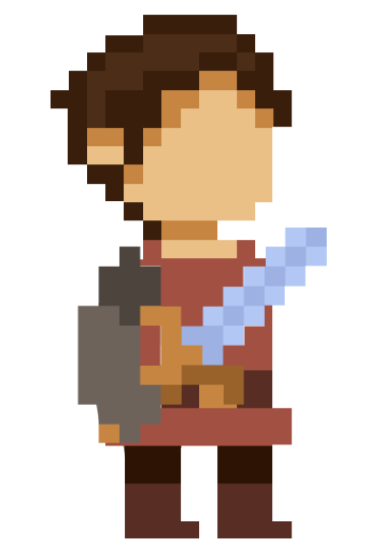
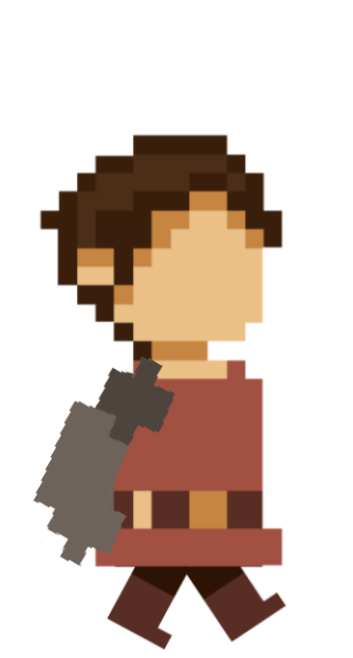
Images and Knight code.

diff --git a/Knight.java b/Knight.java
@@ -13,6 +13,8 @@ public class Knight extends Actor
     private GreenfootImage imageRight2;
     private GreenfootImage imageLeft3;
     private GreenfootImage imageLeft4;
+    private GreenfootImage imageRight5;
+    private GreenfootImage imageLeft6;
     //Attack images
     private GreenfootImage attackRight;
     private GreenfootImage attackLeft;
@@ -29,16 +31,21 @@ public class Knight extends Actor
     public Knight(){
         //images
         imageRight1 = new GreenfootImage("KnightFace1.png");
-        //imageRight2 = new GreenfootImage("KnightFace2.png");
-        //imageLeft3 = new GreenfootImage("KnightFace1left.png");
-        //imageLeft4 = new GreenfootImage("KnightFace2left.png");
+        imageRight2 = new GreenfootImage("KnightFace2.png");
+        imageLeft3 = new GreenfootImage("KnightFace1l.png");
+        imageLeft4 = new GreenfootImage("KnightFace2l.png");
+        imageRight5 = new GreenfootImage("KnightFace3.png");
+        imageLeft6 = new GreenfootImage("KnightFace3l.png");
+        
         
         
         //Scale images
         scaleImage(imageRight1);
-        //scaleImage(imageRight2);
-        //scaleImage(imageLeft3);
-        //scaleImage(imageLeft4);
+        scaleImage(imageRight2);
+        scaleImage(imageLeft3);
+        scaleImage(imageLeft4);
+        scaleImage(imageRight5);
+        scaleImage(imageLeft6);
         
         //Start with Knight facing right
         setImage(imageRight1);
@@ -52,7 +59,7 @@ public class Knight extends Actor
     public void act()
     {
         handleControls();
-        applyGravity();
+        //applyGravity();
         handleJump();
         handleAttack();
         //Cooldown timer reduces every frame
@@ -64,23 +71,33 @@ public class Knight extends Actor
     public void handleControls(){
         if(Greenfoot.isKeyDown("left") || Greenfoot.isKeyDown("a")){
             setImage(imageLeft3);
-            move(-speed);
+            move(-3);
         }
         if(Greenfoot.isKeyDown("right") || Greenfoot.isKeyDown("d")){
             setImage(imageRight1);
-            move(speed);
+            move(3);
+        }
+        
+        //Supposed to make him move up and down, but not working...
+        //Lowkey, this makes him gallop a little bit. Maybe we should use it on the trolls/goblins.
+         if(Greenfoot.isKeyDown("up")){ 
+             setLocation(getX(), getY()-3);
+        }
+        if(Greenfoot.isKeyDown("down")){ 
+            setLocation(getX(), getY()+3);
+           
         }
     }
     
-    private void applyGravity(){
-        yVelocity += gravity; //Apply gravity every frame
-        setLocation(getX(), getY() + yVelocity);
+    //private void applyGravity(){
+        //yVelocity += gravity; //Apply gravity every frame
+        //setLocation(getX(), getY() + yVelocity);
         
-        if(getY() >= 380){
-            setLocation(getX(), 380);
-            yVelocity = 0;
-        }
-    }
+        //if(getY() >= 380){
+            //setLocation(getX(), 380);
+            //yVelocity = 0;
+        //}
+    //}
     
     private boolean isOnGround(){
         return getY() >= 380;
@@ -109,12 +126,13 @@ public class Knight extends Actor
             //reset to normal
             if(attackCooldown == 1){
                 if(getImage() == attackLeft){
-                    setImage(imageLeft3);
+                    setImage(imageLeft6);
                 }else{
-                    setImage(imageRight1);
+                    setImage(imageRight5);
                 }
             }
         }
+        
     }
     
     private void hitEnemies(){

diff --git a/Troll.java b/Troll.java
@@ -10,8 +10,10 @@ public class Troll extends Actor
 {   private int health = 2;
     
     public Troll(){
-        //setImage("");
-        getImage().scale(getImage().getWidth()/4, getImage().getHeight()/4);
+        setImage("Trollside1.png");
+        getImage().scale(getImage().getWidth()/2, getImage().getHeight()/2);
+        setImage("Trollside2.png");
+        getImage().scale(getImage().getWidth()/2, getImage().getHeight()/2);
     }
     /**
      * Act - do whatever the Trolls wants to do. This method is called whenever

diff --git a/TrainingGrounds.java b/TrainingGrounds.java
@@ -19,7 +19,7 @@ public class TrainingGrounds extends World
     public TrainingGrounds()
     {    
         // Create a new world with 600x400 cells with a cell size of 1x1 pixels.
-        super(547, 554, 1); 
+        super(730, 738, 1);  
         addObject(new Knight(), 100, 350);
         addObject(new Troll(), 450, 350);
         dialog = new DialogBox();
